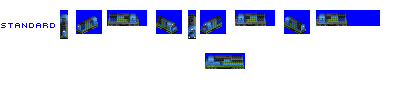
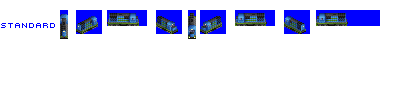
Change: randomise Baby Boat unit direction on build

Changed region(s): [[0.51, 0.4811, 0.63, 0.6509]]

diff --git a/src/vehicles/baby_boat.py b/src/vehicles/baby_boat.py
@@ -18,3 +18,7 @@ consist.add_unit(DieselLoco(consist = consist,
 consist.add_model_variant(intro_date=0,
                        end_date=global_constants.max_game_date,
                        spritesheet_suffix=0)
+
+consist.add_model_variant(intro_date=0,
+                       end_date=global_constants.max_game_date,
+                       spritesheet_suffix=1)
